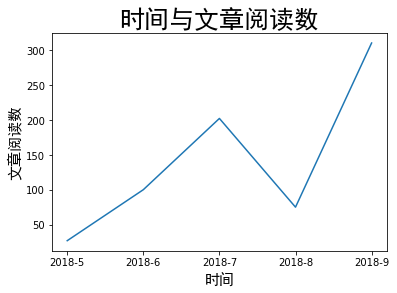
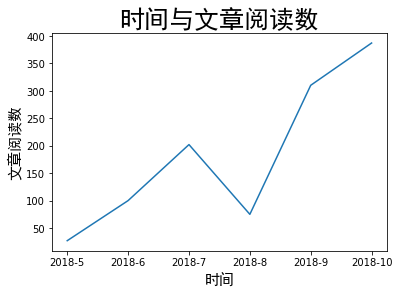
2018-10-29

diff --git a/number.py b/number.py
@@ -6,8 +6,8 @@ Created on Fri Sep 14 09:12:16 2018
 """
 
 import matplotlib.pyplot as plt
-date=['2018-5','2018-6','2018-7','2018-8','2018-9']
-number=[27,100,202,75,310]
+date=['2018-5','2018-6','2018-7','2018-8','2018-9','2018-10']
+number=[27,100,202,75,310,387]
 plt.title("时间与文章阅读数",fontproperties='SimHei',fontsize=25)
 plt.xlabel("时间",fontproperties='SimHei',fontsize=15)
 plt.ylabel("文章阅读数",fontproperties='SimHei',fontsize=15)

diff --git a/README.md b/README.md
@@ -2,37 +2,79 @@
 若想看根据分类排序 [good-articlles-by-sort](https://github.com/zhang0peter/good-articles-by-sort)
 
 ![number](number.png)        
+共1100篇文章
 
-## 2018-10
+## 2018-11
+*   []()
+*   []()
+*   []()
+*   []()
+*   []()
+*   []()
+*   []()
+*   []()
+*   []()
+*   []()
+*   []()
+*   []()
+*   []()
+*   [【机器学习实践】水果图片分类](https://mp.weixin.qq.com/s?__biz=MzAxMjE4MTQ2OA==&mid=2652730838&idx=1&sn=5a49555564fddaa64e3ee2a4c465f17f&chksm=805c1f65b72b9673b54ba8229961d6258a8a6b41dc29c13b46ab4e8f9d27a7047e8718854224&mpshare=1&scene=23&srcid=1010PjtocZZZIQ5HZFsfCUG8#rd)
+*   [init,service和systemctl的区别](https://blog.csdn.net/lineuman/article/details/52578399)
+*   [How I hacked modern Vending Machines](https://hackernoon.com/how-i-hacked-modern-vending-machines-43f4ae8decec)
+*   [Linear-feedback shift register](https://en.wikipedia.org/wiki/Linear-feedback_shift_register)
+*   [关于国密算法 SM1，SM2，SM3，SM4 的笔记](https://blog.csdn.net/andylau00j/article/details/54427395)
 
-*   []()
-*   []()
-*   []()
-*   []()
-*   []()
-*   []()
-*   []()
-*   []()
-*   []()
-*   []()
-*   []()
-*   []()
-*   []()
-*   []()
-*   []()
-*   []()
-*   []()
-*   []()
-*   []()
-*   []()
-*   []()
-*   []()
-*   []()
-*   []()
-*   []()
-*   []()
-*   []()
-*   []()
+
+## 2018-10 共387篇
+
+*   [成人网站Pornhup招人了：GIT](https://mp.weixin.qq.com/s?__biz=MzIzMDQyMjcxOA==&mid=2247486374&idx=1&sn=daa671147a84c1410daa016307840c5e&chksm=e8b2ea77dfc563619920746e568a238b5370f1763107896fa29e8c6cbcb9fce48a4e2ab0fcef&mpshare=1&scene=23&srcid=10299R3wnslFxjINbGCRBoB2#rd)
+*   [selenium WebDriverException: Message: unknown error: DevToolsActivePort file doesnt exist](http://www.cnblogs.com/z-x-y/p/9507467.html)
+*   [使用Python CGIHTTPServer绕过注入时的CSRF Token防御](http://www.freebuf.com/articles/web/185545.html?utm_source=tuicool&utm_medium=referral)
+*   [How to download an archive and extract it without saving the archive to disk?](https://unix.stackexchange.com/questions/85194/how-to-download-an-archive-and-extract-it-without-saving-the-archive-to-disk)
+*   [前端安全系列（二）：如何防止CSRF攻击？](http://www.freebuf.com/articles/web/186880.html?utm_source=tuicool&utm_medium=referral)
+*   [树莓派安装OpenWRT做路由器图文详解](http://shumeipai.nxez.com/2016/06/26/raspberry-pi-install-openwrt-routers-do-detailed-graphics.html)
+*   [如何只用 NumPy 码一个神经网络](https://www.jiqizhixin.com/articles/102802?utm_source=tuicool&utm_medium=referral)
+*   [这可能是最为详细的Docker入门吐血总结 - Angel_Kitty - 博客园](http://www.cnblogs.com/ECJTUACM-873284962/p/9789130.html)
+*   [如何使用基于整数的手动SQL注入技术](http://www.freebuf.com/articles/web/185274.html?utm_source=tuicool&utm_medium=referral)
+*   [Wfuzz初上手](https://gh0st.cn/archives/2018-10-28/1?utm_source=tuicool&utm_medium=referral)
+*   [Git超实用总结，再也不怕记忆力不好了](https://studygolang.com/articles/15519?utm_source=tuicool&utm_medium=referral)
+*   [一个物联网(IoT)开发的入门教程。涉及单片机、上位机、移动应用、服务器后台开发的知识。以及蓝牙4.0、以太网模块的使用实例。](https://github.com/nladuo/IoT-Firstep)
+*   [RFID 破解基础详解](https://mp.weixin.qq.com/s?__biz=MzI5MDQ2NjExOQ==&mid=2247488354&idx=1&sn=be1205869e1be6bf5df3b3f2132d2969&chksm=ec1e234adb69aa5c7ad878b5ffbaf974c0ab17c8d892d532adf529585b6c2dd27b6d1b09c1ab&mpshare=1&scene=23&srcid=1007cOXOj6yKfhMWWXPz1d6X#rd)
+*   [看图轻松理解数据结构与算法系列(红黑树)](http://blog.csdn.net/wangyangzhizhou/article/details/83267923?utm_source=tuicool&utm_medium=referral)
+*   [RFID渗透工具教程](https://bbs.ichunqiu.com/forum.php?mod=viewthread&tid=39443&highlight=rfid)
+*   [一次对路边饮用水RFID供应机的跑路玩法](https://bbs.ichunqiu.com/forum.php?mod=viewthread&tid=24889&highlight=rfid)
+*   [【墨家】RFID入门：Mifare1智能水卡破解分析](https://bbs.ichunqiu.com/forum.php?mod=viewthread&tid=6704&highlight=rfid)
+*   [RFIDHacKing硬件的有趣事情](https://bbs.ichunqiu.com/forum.php?mod=viewthread&tid=21207&highlight=rfid)
+*   [浅谈 Web 前端开发中的国际化](https://mp.weixin.qq.com/s/vqzvn-mwiFQmfPyuukPSWw?utm_source=tuicool&utm_medium=referral)
+*   [CSS margin-inline和margin-block区别是什么？](https://www.zhangxinxu.com/wordpress/2018/10/diff-css-margin-inline-margin-block/)
+*   [JavaScript实现函数重载](http://blog.liuxuan.site/2018/08/29/javascript_function_overload/?utm_source=tuicool&utm_medium=referral)
+*   [利用小米手机的门卡模拟功能模拟校园卡门禁](https://www.cc98.org/topic/4787035/1#1)
+*   [安卓手机搭建渗透环境（无需Root）](https://www.freebuf.com/sectool/186251.html?utm_source=tuicool&utm_medium=referral)
+*   [Padavan固件ss账号设置教程](https://www.johntitorblog.com/?p=690)
+*   [一文盘点直播技术中的编解码、直播协议、网络传输与简单实现](https://segmentfault.com/a/1190000016819686?utm_source=tuicool&utm_medium=referral)
+*   [ACM MM最佳论文全文：通过多对抗训练，从图像生成诗歌](https://www.leiphone.com/news/201810/cTCGyCN8w6pfRm0C.html?utm_source=tuicool&utm_medium=referral)
+*   [用 Python 实现抖音尬舞机](https://zhuanlan.zhihu.com/p/47536632?utm_source=tuicool&utm_medium=referral)
+*   [久站的、久坐的，小心腿上爬满“小蚯蚓” | 过日子](https://mp.weixin.qq.com/s?__biz=MTg1MjI3MzY2MQ==&mid=2651701880&idx=1&sn=6871dd5f7ce53d56d1f6274573fe6bc3&chksm=5da1e6ea6ad66ffce311a17da98be25cc442e00cc6b058615be4e71cf97f52b489c30664ff05&mpshare=1&scene=23&srcid=1027wicYCiaVo9IDpQFWVX5m#rd)
+*   [老司机揭秘手机定位技术，这下彻底明白啦！](https://www.jianshu.com/p/196635e37bbc)
+*   [回顾那些年2G给我们带来的阴影](http://www.tmtpost.com/3554274.html?utm_source=tuicool&utm_medium=referral)
+*   [Keras实现：用部分卷积补全图像不规则缺损](https://zhuanlan.zhihu.com/p/47610338?utm_source=tuicool&utm_medium=referral)
+*   [大家用什么方案把 markdown 转 pdf？](https://www.v2ex.com/t/174448)
+*   [PPP和HDLC链路的帧格式区别](http://blog.csdn.net/fan_hai_ping/article/details/8243779?utm_source=tuicool&utm_medium=referral)
+*   [人体内发现微塑料？不仅侵入血液、肝脏等，它还有哪些危害？ | 热点](https://mp.weixin.qq.com/s?__biz=MTg1MjI3MzY2MQ==&mid=2651701855&idx=1&sn=fcf25d2c22ca5c244bc41d0add3dd89c&chksm=5da1e6cd6ad66fdb8c1074c938e27aa703af3ee0531be5d363dafad4f0ca9de6ded11747ac4c&mpshare=1&scene=23&srcid=1027seEGDy8StwW536X7SfiA#rd)
+*   [安全研究 | 传真机的攻击面研究报告](http://www.freebuf.com/articles/paper/186769.html?utm_source=tuicool&utm_medium=referral)
+*   [错误：编码GBK的不可映射字符](https://www.cnblogs.com/lucky-zhangcd/p/8409810.html)
+*   [2018-10-24 为什么21世纪依然需要鲁迅？](https://mp.weixin.qq.com/s?__biz=MjM5NzE2NTY0Ng==&mid=2650674525&idx=1&sn=54135744cf331b7791d7c80c26cf950b&chksm=bed49a7c89a3136a9ee0fc2cf446acd820499a8df334ab7bc65023b36bc18e6148a3acb3a468&mpshare=1&scene=23&srcid=1027z4urtMIj2MQ5rB51Atvw#rd)
+*   [eclipse在命令行输入参数](https://blog.csdn.net/jjj1299894209/article/details/80302973)
+*   [Java初学之命令行参数](https://blog.csdn.net/sum_tw/article/details/55820376)
+*   [神经网络需要多少隐藏层、每层需要多少神经元？](https://zhuanlan.zhihu.com/p/47519999?utm_source=tuicool&utm_medium=referral)
+*   [Linear Feedback Shift Register explaination](https://stackoverflow.com/questions/44584215/linear-feedback-shift-register-explaination)
+*   [Difference between stream cipher and block cipher 流密码和分组密码之间的区别](https://crypto.stackexchange.com/questions/5333/difference-between-stream-cipher-and-block-cipher)
+*   [移动硬盘无法识别完美修复教程](http://www.upantool.com/jiaocheng/disk/9475.html)
+*   [基于LPN问题的RFID安全协议设计与分析](https://wenku.baidu.com/view/c177120303d8ce2f006623fa.html)
+*   [Kali下的蓝牙设备侦察方法介绍](http://www.freebuf.com/sectool/173589.html?utm_source=tuicool&utm_medium=referral)
+*   [Getting Started with Bluetooth Hacking](https://www.hackers-arise.com/getting-started-with-bluetooth-hack)
+*   [面试之路（29）-TCP流量控制和拥塞控制-滑动窗口协议详解](http://blog.csdn.net/lpjishu/article/details/51366691?utm_source=tuicool&utm_medium=referral)
+*   [[原]排队理论解释TCP/IP网络拥塞是如何影响TCP的RTT的波动](http://blog.csdn.net/dog250/article/details/51582932?utm_source=tuicool&utm_medium=referrals)
 *   [TCP BBR算法中Pacing，cwnd，fq以及TSQ对RTT的影响](http://blog.csdn.net/dog250/article/details/72849890?utm_source=tuicool&utm_medium=referral)
 *   [基于RTT梯度的TCP CDG拥塞控制算法](http://blog.csdn.net/dog250/article/details/53560271?utm_source=tuicool&utm_medium=referral)
 *   [蓝牙技术的安全知识，我们一定要认真学习！](http://www.duozhishidai.com/article-1816-1.html?utm_source=tuicool&utm_medium=referral)
